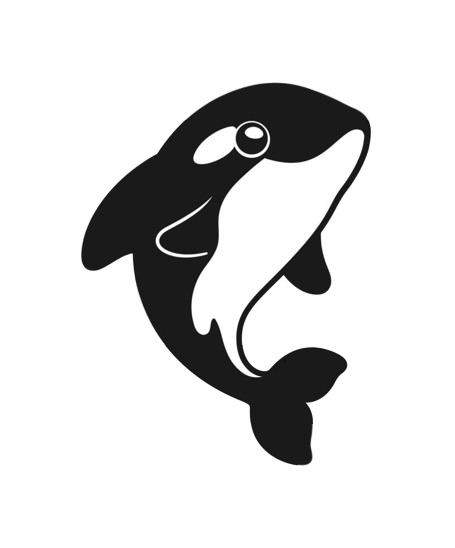
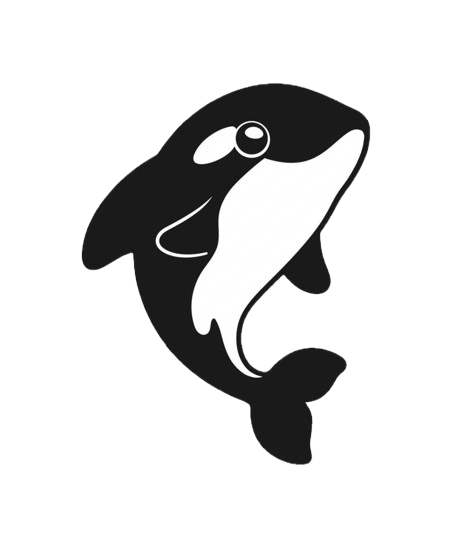
updated the reveal animation to images instead of emoji

diff --git a/src/index.css b/src/index.css
@@ -232,79 +232,6 @@ body {
   box-shadow:
   inset -2px -2px 6px rgba(255,255,255,0.3),
   0 0 8px rgba(255,255,255,0.2);}
-/*
-.bubble {
-  position: absolute;
-  bottom: -60px;
-  width: 18px;
-  height: 18px;
-  border-radius: 50%;
-  background: rgba(255,255,255,0.45);
-  animation-name: rise;
-  animation-timing-function: ease-in;
-  animation-iteration-count: infinite;
-}
-.bubble:nth-child(2n) {
-  width: 30px;
-  height: 20px;
-}
-.bubble:nth-child(3n) {
-  width: 30px;
-  height: 30px;
-}
-
-.bubble:nth-child(5n) {
-  width: 45px;
-  height: 45px;
-}
-
-.bubble:nth-child(7n) {
-  width: 12px;
-  height: 12px;
-}
-.bubble:nth-child(1) {
-  left:10%;
-  animation-delay:0s;
-}
-
-.bubble:nth-child(2) {
-  left:25%;
-  animation-delay:1s;
-}
-
-.bubble:nth-child(3) {
-  left:40%;
-  animation-delay:2s;
-}
-
-.bubble:nth-child(4) {
-  left:60%;
-  animation-delay:0.5s;
-}
-
-.bubble:nth-child(5) {
-  left:80%;
-  animation-delay:1.5s;
-}
-.bubble {
-  background: rgba(255,255,255,0.45);
-border: 1px solid rgba(255,255,255,0.7);}
-  @keyframes rise {
-  from {
-    transform: translateY(0) translateX(0);
-    opacity:0;
-  }
-  20% {
-    opacity:0.7;
-  }
-   50% {
-    transform: translateY(-60vh) translateX(20px);
-  }
-  to {
-    transform: translateY(-120vh) translateX(-20px);
-    opacity:0;
-  }
-}*/
 @keyframes rise {
   0% {
     transform:
@@ -629,4 +556,45 @@ border: 1px solid rgba(255,255,255,0.7);}
   margin-left: auto;
   margin-right: auto;
   line-height: 1.6;
+}
+.animal-image {
+  width: 200px;
+  height: 200px;
+  object-fit: contain;
+  display: block;
+  margin: 0;
+  position: relative;
+  z-index: 2;
+  filter: drop-shadow(0 10px 15px rgba(0, 30, 60, 0.3));
+}
+.almost-image {
+  width: 100px;
+  height: 100px;
+  object-fit: contain;
+  display: block;
+  margin: 0 auto 10px;
+  filter: drop-shadow(0 6px 10px rgba(0, 30, 60, 0.25));
+}
+.compatibility-image {
+  width: 75px;
+  height: 75px;
+  object-fit: contain;
+  display: block;
+  margin: 0 auto 5px;
+  filter: drop-shadow(0 5px 8px rgba(0, 30, 60, 0.25));
+}
+.opposite-animal {
+  display: flex;
+  flex-direction: column;
+  align-items: center;
+  gap: 5px;
+}
+.animal-reveal {
+  position: relative;
+  width: 250px;
+  height: 250px;
+  margin: 0 auto 15px;
+  display: flex;
+  justify-content: center;
+  align-items: center;
 }

diff --git a/src/components/ResultCard.jsx b/src/components/ResultCard.jsx
@@ -129,24 +129,24 @@ function ResultCard({ animal,result,almostAnimals, onRestart }) {
     />
   ))}
 </div>
-  <motion.div
-    className="animal-emoji"
-    initial={{
-      opacity: 0,
-      scale: 0.2
-    }}
-    animate={{
-      opacity: [0, 1, 1],
-      scale: [0.2, 1.25, 1]
-    }}
-    transition={{
-      duration: 1.1,
-      times: [0, 0.65, 1],
-      ease: "easeOut"
-    }}
-  >
-    {animal.emoji}
-  </motion.div>
+ <motion.img
+  className="animal-image"
+  src={animal.image}
+  alt={animal.name}
+  initial={{
+    opacity: 0,
+    scale: 0.2
+  }}
+  animate={{
+    opacity: [0, 1, 1],
+    scale: [0.2, 1.25, 1]
+  }}
+  transition={{
+    duration: 1.1,
+    times: [0, 0.65, 1],
+    ease: "easeOut"
+  }}
+/>
 </motion.div>
       <motion.p
         initial={{opacity:0, y:20}}
@@ -224,10 +224,11 @@ function ResultCard({ animal,result,almostAnimals, onRestart }) {
           animate={{ opacity: 1, y: 0 }}
           transition={{ duration: 0.5 }}
         >
-          <span className="almost-emoji">
-            {item.emoji}
-          </span>
-
+          <img
+            className="almost-image"
+            src={item.image}
+            alt={item.name}
+          />
           <h3>
             {item.name}
           </h3>
@@ -258,9 +259,11 @@ function ResultCard({ animal,result,almostAnimals, onRestart }) {
         key={item.id}
         className="compatibility-item"
       >
-        <span>
-          {item.emoji}
-        </span>
+         <img
+        className="compatibility-image"
+        src={item.image}
+        alt={item.name}
+      />
 
         <p>
           {item.name}
@@ -277,11 +280,17 @@ function ResultCard({ animal,result,almostAnimals, onRestart }) {
         Different energy:
       </p>
 
-      <span>
-        {oppositeAnimal.emoji}
-        {" "}
-        {oppositeAnimal.name}
-      </span>
+      <div className="opposite-animal">
+    <img
+      className="compatibility-image"
+      src={oppositeAnimal.image}
+      alt={oppositeAnimal.name}
+    />
+
+    <span>
+      {oppositeAnimal.name}
+    </span>
+    </div>
     </div>
   )}
 
